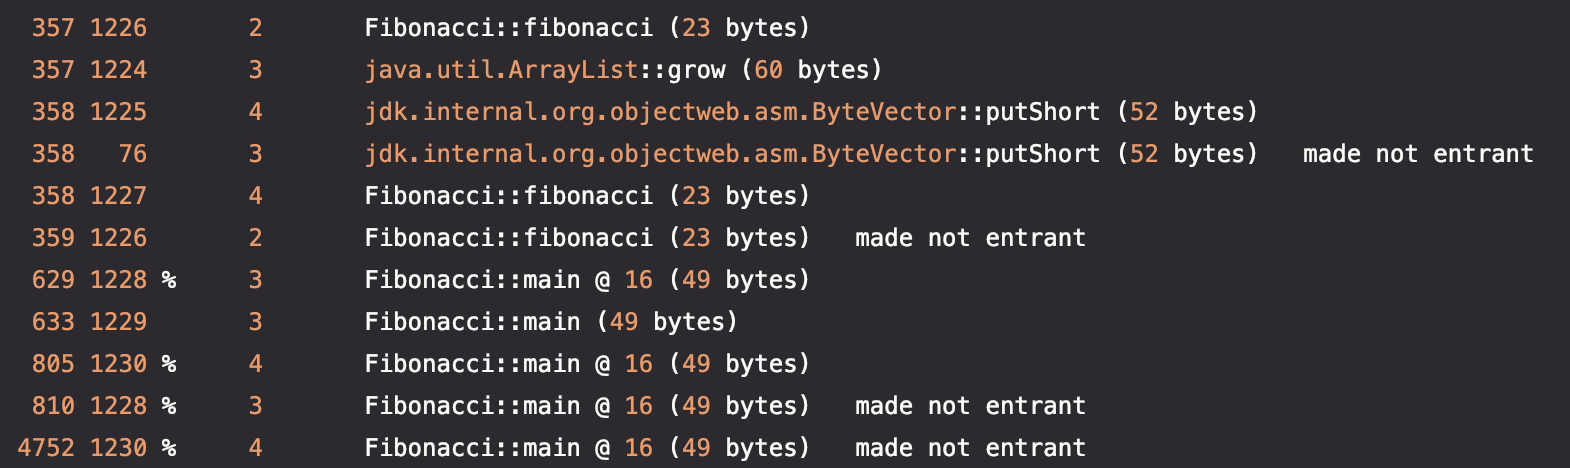
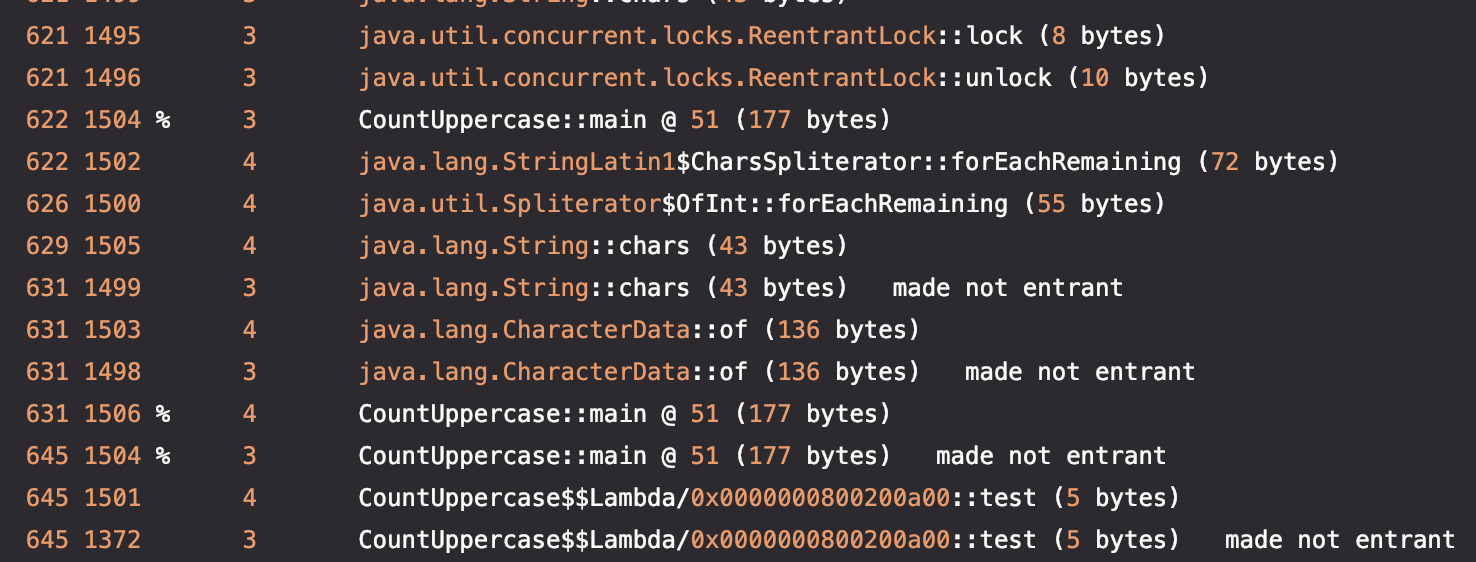
🔃 Counting characters in uppercase rather than Fibonacci

diff --git a/02-graalvm-aot-compiler/CountUppercase.java b/02-graalvm-aot-compiler/CountUppercase.java
@@ -1,0 +1,31 @@
+class CountUppercase {
+
+    static final int ITERATIONS = Integer.getInteger("iterations", 1);
+    static final int SENTENCE_ITERATIONS = Integer.getInteger("sentenceIterations", 10_000_000);
+
+    public static void main(String[] args) {
+
+        String sentence = String.join(" ", args);
+
+        for (int iter = 0; iter < ITERATIONS; iter++) {
+
+            if (ITERATIONS != 1) System.out.println("-- iteration " + (iter + 1) + " --");
+
+            long total = 0, start = System.currentTimeMillis(), last = start;
+
+            for (int i = 1; i < SENTENCE_ITERATIONS; i++) {
+
+                total += sentence.chars().filter(Character::isUpperCase).count();
+
+                if (i % 1_000_000 == 0) {
+                    long now = System.currentTimeMillis();
+                    System.out.printf("%d (%d ms)%n", i / 1_000_000, now - last);
+                    last = now;
+                }
+
+            }
+
+            System.out.printf("total: %d (%d ms)%n", total, System.currentTimeMillis() - start);
+        }
+    }
+}

diff --git a/00-basic-compilation/CountUppercase.java b/00-basic-compilation/CountUppercase.java
@@ -1,0 +1,30 @@
+class CountUppercase {
+
+    static final int ITERATIONS = Integer.getInteger("iterations", 1);
+
+    public static void main(String[] args) {
+
+        String sentence = String.join(" ", args);
+
+        for (int iter = 0; iter < ITERATIONS; iter++) {
+
+            if (ITERATIONS != 1) System.out.println("-- iteration " + (iter + 1) + " --");
+
+            long total = 0, start = System.currentTimeMillis(), last = start;
+
+            for (int i = 1; i < 10_000_000; i++) {
+
+                total += sentence.chars().filter(Character::isUpperCase).count();
+
+                if (i % 1_000_000 == 0) {
+                    long now = System.currentTimeMillis();
+                    System.out.printf("%d (%d ms)%n", i / 1_000_000, now - last);
+                    last = now;
+                }
+
+            }
+
+            System.out.printf("total: %d (%d ms)%n", total, System.currentTimeMillis() - start);
+        }
+    }
+}

diff --git a/01-graalvm-jit-compiler/CountUppercase.java b/01-graalvm-jit-compiler/CountUppercase.java
@@ -1,0 +1,30 @@
+class CountUppercase {
+
+    static final int ITERATIONS = Integer.getInteger("iterations", 1);
+
+    public static void main(String[] args) {
+
+        String sentence = String.join(" ", args);
+
+        for (int iter = 0; iter < ITERATIONS; iter++) {
+
+            if (ITERATIONS != 1) System.out.println("-- iteration " + (iter + 1) + " --");
+
+            long total = 0, start = System.currentTimeMillis(), last = start;
+
+            for (int i = 1; i < 10_000_000; i++) {
+
+                total += sentence.chars().filter(Character::isUpperCase).count();
+
+                if (i % 1_000_000 == 0) {
+                    long now = System.currentTimeMillis();
+                    System.out.printf("%d (%d ms)%n", i / 1_000_000, now - last);
+                    last = now;
+                }
+
+            }
+
+            System.out.printf("total: %d (%d ms)%n", total, System.currentTimeMillis() - start);
+        }
+    }
+}

diff --git a/00-basic-compilation/README.md b/00-basic-compilation/README.md
@@ -1,15 +1,24 @@
 # Basic compilation in Java
 
-1. Calculation a million times fibonacci of 17 and observation of JIT activity (C1, C2)
+1. Counts the number of uppercase characters in a body of text. To simulate a large load, the same sentence is processed 10 million times and observation of JIT activity (C1, C2)
 
 ```bash
-time java -XX:+PrintCompilation Fibonacci.java 17 1000000 > jit-compiler.log
+java -XX:+PrintCompilation CountUppercase.java Hello World > jit-compiler.log
 
-#  4.87s user 0.10s system 104% cpu 4.771 total
+#1 (144 ms)
+#2 (101 ms)
+#3 (51 ms)
+#4 (52 ms)
+#5 (66 ms)
+#6 (53 ms)
+#7 (49 ms)
+#8 (51 ms)
+#9 (61 ms)
+#total: 19999998 (700 ms)
 ```
 ![JIT Compiler Log](../images/jit-compiler-log.png)
 
-We can observe the activity of C1 (*2, 3*), via ***Tiried Compilation***. All the profiling data collected, together with the JIT compilation thresholds, triggers C2 (*4*).
+We can observe the activity of C1 (*3*), via ***Tiried Compilation***. All the profiling data collected, together with the JIT compilation thresholds, triggers C2 (*4*).
 The runtime proceeds to the de-optimization phases when the compilation hypotheses are wrong (*made not entering*).
 
 For more information on compilation logs, see [here][explain-compilation-log]
@@ -20,9 +29,19 @@ For more information on compilation logs, see [here][explain-compilation-log]
 2. Execution in pure interpretation mode (**JIT-less***)
 
 ```bash
-time java -Xint Fibonacci.java 17 1000000
+java -Xint CountUppercase.java Hello World
 
 # 😴😪🥱💤🛌🏼
+#1 (3282 ms)
+#2 (3312 ms)
+#3 (3393 ms)
+#4 (3400 ms)
+#5 (3268 ms)
+#6 (3353 ms)
+#7 (3328 ms)
+#8 (3309 ms)
+#9 (3334 ms)
+#total: 19999998 (33284 ms)
 ```
 Very, very serious performance degradation, as we no longer benefit from JIT. The runtime's interpreter mode is very costly.
 

diff --git a/02-graalvm-aot-compiler/README.md b/02-graalvm-aot-compiler/README.md
@@ -4,23 +4,28 @@
    The downside is that it takes a long time 
 
 ```bash
-javac Fibonacci.java
+javac CountUppercase.java
 
-native-image Fibonacci
+native-image CountUppercase
 
-time ./fibonacci 17 1000000
-# 6,15s user 0,02s system 95% cpu 6,498 total
-
-time ./fibonacci 17 100
-# 0,00s user 0,01s system 33% cpu 0,025 total  
+./countuppercase Hello World
+#1 (139 ms)
+#2 (106 ms)
+#3 (105 ms)
+#4 (104 ms)
+#5 (117 ms)
+#6 (126 ms)
+#7 (112 ms)
+#8 (108 ms)
+#9 (106 ms)
+#total: 19999998 (1132 ms)
 ```
 
-With 1 million loop turns, the execution time with C2 is less than with the native image. The reason is that C2 performs frequent optimizations, whereas with the native image, optimization has been performed up to a certain level.
+With 10 million loop turns, the execution time with C2/Graal is less than with the native image. The reason is that C2/Graal performs frequent optimizations, whereas with the native image, optimization has been performed up to a certain level.
 
 Below are the native compilation logs. For more information on this output, see this [doc][native-image-compilation-output]
 ![JIT Compiler Log](../images/native-image-build-output.png)
 
-2. 
 
 <!-- links -->
 [native-image-compilation-output]: https://www.graalvm.org/latest/reference-manual/native-image/overview/BuildOutput/

diff --git a/01-graalvm-jit-compiler/README.md b/01-graalvm-jit-compiler/README.md
@@ -14,9 +14,18 @@ sdk  default java 21-graalce
    Migrating from OpenJDK to GraalVM allows you to benefit natively from the performance provided by the Graal JIT, without changing your application code.
 
 ```bash
-time java -XX:+UseJVMCICompiler Fibonacci.java 17 1000000
+java -XX:+UseJVMCICompiler CountUppercase.java Hello World
 
-# 4.99s user 0.11s system 101% cpu 5.047 total
+#1 (77 ms)
+#2 (80 ms)
+#3 (55 ms)
+#4 (47 ms)
+#5 (42 ms)
+#6 (43 ms)
+#7 (53 ms)
+#8 (54 ms)
+#9 (43 ms)
+#total: 19999998 (538 ms)
 ```
 
 - `-XX:+UseJVMCICompiler` : It is optional, and lets you use the Graal JIT instead of C2.
@@ -24,8 +33,17 @@ time java -XX:+UseJVMCICompiler Fibonacci.java 17 1000000
 3. With GraalVM, you can configure the runtime to ignore JVMCI and use HotSpot's C2 JIT.
 
 ```bash
-time java -XX:-UseJVMCICompiler Fibonacci.java 17 1000000
+java -XX:-UseJVMCICompiler CountUppercase.java Hello World
 
-# 8.23s user 0.16s system 99% cpu 8.396 total
+#1 (173 ms)
+#2 (94 ms)
+#3 (41 ms)
+#4 (56 ms)
+#5 (43 ms)
+#6 (40 ms)
+#7 (39 ms)
+#8 (45 ms)
+#9 (43 ms)
+#total: 19999998 (612 ms)
 ```
 
